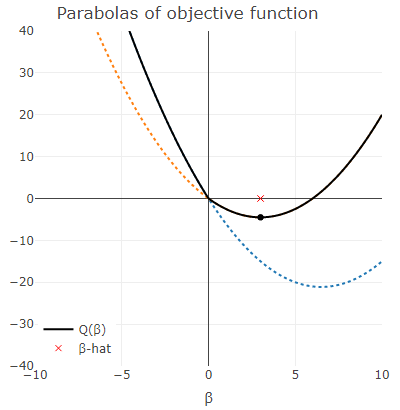
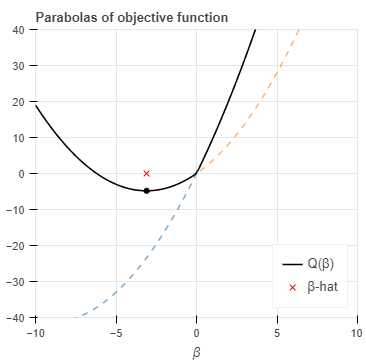
improve vizlasso with bokeh

diff --git a/assets/img/vizlasso/vizlasso.html b/assets/img/vizlasso/vizlasso.html
@@ -1,0 +1,86 @@
+
+
+
+
+<!DOCTYPE html>
+<html lang="en">
+  
+  <head>
+    
+      <meta charset="utf-8">
+      <title>Bokeh Plot</title>
+      
+      
+        
+          
+        
+        
+          
+        <script type="text/javascript" src="https://cdn.bokeh.org/bokeh/release/bokeh-2.3.2.min.js" integrity="sha384-XypntL49z55iwGVUW4qsEu83zKL3XEcz0MjuGOQ9SlaaQ68X/g+k1FcioZi7oQAc" crossorigin="anonymous"></script>
+        <script type="text/javascript" src="https://cdn.bokeh.org/bokeh/release/bokeh-widgets-2.3.2.min.js" integrity="sha384-TX0gSQTdXTTeScqxj6PVQxTiRW8DOoGVwinyi1D3kxv7wuxQ02XkOxv0xwiypcAH" crossorigin="anonymous"></script>
+        <script type="text/javascript">
+            Bokeh.set_log_level("info");
+        </script>
+        
+      
+      
+    
+  </head>
+  
+  
+  <body>
+    
+      
+        
+          
+          
+            
+              <div class="bk-root" id="470b76ac-d27c-4507-af7e-91a64bdd366f" data-root-id="1187"></div>
+            
+          
+        
+      
+      
+        <script type="application/json" id="1422">
[1 lines of base64/hex data omitted]
+        </script>
+        <script type="text/javascript">
+          (function() {
+            var fn = function() {
+              Bokeh.safely(function() {
+                (function(root) {
+                  function embed_document(root) {
+                    
+                  var docs_json = document.getElementById('1422').textContent;
+                  var render_items = [{"docid":"602ef8b9-ccd7-4523-9919-c3801fcb0456","root_ids":["1187"],"roots":{"1187":"470b76ac-d27c-4507-af7e-91a64bdd366f"}}];
+                  root.Bokeh.embed.embed_items(docs_json, render_items);
+                
+                  }
+                  if (root.Bokeh !== undefined) {
+                    embed_document(root);
+                  } else {
+                    var attempts = 0;
+                    var timer = setInterval(function(root) {
+                      if (root.Bokeh !== undefined) {
+                        clearInterval(timer);
+                        embed_document(root);
+                      } else {
+                        attempts++;
+                        if (attempts > 100) {
+                          clearInterval(timer);
+                          console.log("Bokeh: ERROR: Unable to run BokehJS code because BokehJS library is missing");
+                        }
+                      }
+                    }, 10, root)
+                  }
+                })(window);
+              });
+            };
+            if (document.readyState != "loading") fn();
+            else document.addEventListener("DOMContentLoaded", fn);
+          })();
+        </script>
+    
+  </body>
+  
+</html>

diff --git a/_projects/vizlasso.md b/_projects/vizlasso.md
@@ -1,13 +1,29 @@
 ---
 layout: page
 title: Soft-thresh
-description: Visualizing the relationship between the soft-thresholding operator and the LASSO solution (shinyapp)
+description: Visualizing the LASSO solution
 img: assets/img/vizlasso/vizlassocard.png
 importance: 2
 category: work
 ---
 
-<iframe height="780" width="100%" frameborder="no" src=" https://roobnloo.shinyapps.io/vizlasso/"> </iframe>
+Define the piecewise quadratic objective function $$Q\colon \mathbb{R}\to \mathbb{R}$$:
+
+$$
+Q(\beta) = \frac{1}{2}\beta^2 + (\operatorname{sign}(\beta)\lambda - y)\beta.
+$$
+
+The minimizer of $$Q$$ has a closed form given by the *soft-threshodling operator* $$S(y, \lambda)$$:
+
+$$
+\hat\beta = S(y,\lambda) = \operatorname{sign}(y)(y-\lambda)_+
+$$
+
+<p align="center">
+<iframe height="430" width="100%" frameborder="no" src="/assets/img/vizlasso/vizlasso.html"> </iframe>
+</p>
+
+The objective function $$Q$$ naturally arises in linear regression with a LASSO penalty.
 
 Let $$\mathbf{y} \in \mathbb{R}^n$$ be a response vector and $$\mathbf{X}\in \mathbb{R}^{n\times p}$$
 the observed data matrix. LASSO regression looks for the minimizer $$\hat\beta\in\mathbb{R}^p$$
@@ -19,8 +35,7 @@ $$
 
 where $$\lVert\beta\rVert_1 = \sum_{i=1}^p \lvert\beta_i\rvert$$ is the $$\ell_1$$ penalty.
 
-In the case where $$n = p = 1$$, the solution has a nice closed form given by the *soft-thresholding* operator.
-To see this, expand to find
+In the case where $$n = p = 1$$, expand to find
 
 $$
 L(\beta) = \frac{1}{2}\beta^2 + (\operatorname{sign}(\beta)\lambda - y)\beta + \frac{1}{2}y^2.
@@ -29,9 +44,10 @@ $$
 Since the final term does not contain $$\beta$$, it suffices to solve
 
 $$
-\hat\beta = \operatorname*{argmin}_{\beta \in \mathbb{R}} \frac{1}{2}\beta^2 + (\operatorname{sign}(\beta)\lambda - y)\beta
+\hat\beta = \operatorname*{argmin}_{\beta \in \mathbb{R}} \frac{1}{2}\beta^2 + (\operatorname{sign}(\beta)\lambda - y)\beta.
 $$
 
 
 The relationship between $$\hat\beta$$ and the soft-thresholding operator is visualized above.
+By adjusting the value of $$\lambda$$, you can see the soft-thresholding operator shrinks the minimizer towards zero.
 
